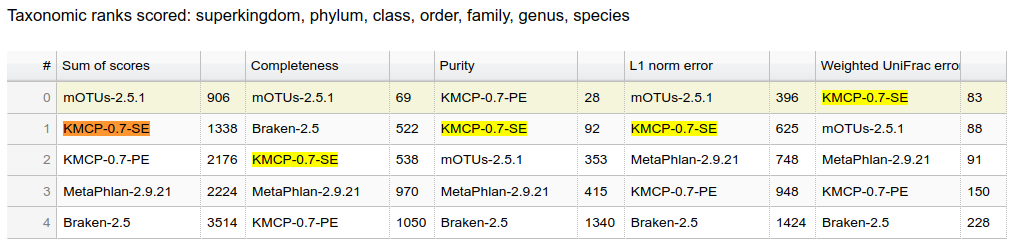
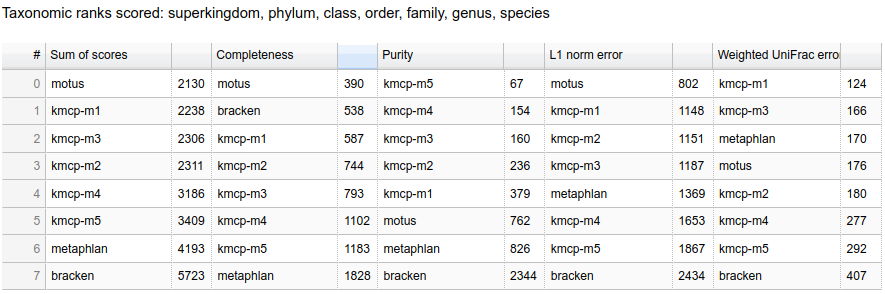
update benchmark results

diff --git a/benchmarks/cami2-mouse-gut/README.md b/benchmarks/cami2-mouse-gut/README.md
@@ -1,18 +1,26 @@
 # Benchmarks on CAMI2 toy mouse gut short reads dataset
 
+We created KMCP databaes with the RefSeq and Taxonomy snapshot provided by CAMI2 (2019-01-08).
+
+Gold standard was downloaded from: https://zenodo.org/record/3632528#.YJY6NaIzZD8 .
+Benchmark results of other tools are downloaded from: https://zenodo.org/search?page=1&size=20&q=keywords:%22CAMI%202%20Mouse%20Gut%20Toy%20data%20set%22&keywords=taxonomic%20profiling .
 
 ## Softwares
 
-- kmcp ([v0.7.0](https://github.com/shenwei356/kmcp/releases/tag/v0.7.0)
+- kmcp [v0.7.0](https://github.com/shenwei356/kmcp/releases/tag/v0.7.0)
+- motus 2.5.1
+- metaphlan 2.9.21
+- bracken 2.5
 
 ## Databases
 
-Prebuilt databases
+[Prebuilt databases](https://1drv.ms/u/s!Ag89cZ8NYcqtjVVADr8r--fnKFt-?e=ivNZNK):
 
-- DB for bacteria: [refseq-cami2-k21-n10.db.tar.gz]()
-- DB for viruses: [refseq-cami2-viral-k21-n5.db.tar.gz]()
-- TaxId mapping: [taxid.map](), and [taxid-viral.map]()
-- [taxdump.tar.gz]()
+- DB for bacteria: [refseq-cami2-k21-n10.db.tar.gz](https://1drv.ms/u/s!Ag89cZ8NYcqtjV62KmQmOojxwBRr?e=lp5a9F), [md5](https://1drv.ms/t/s!Ag89cZ8NYcqtjWISqJGcxQD39FCv?e=CQ0E8d)
+- DB for viruses: [refseq-cami2-viral-k21-n5.db.tar.gz](https://1drv.ms/u/s!Ag89cZ8NYcqtjVyYFIHY01PtDMcx?e=AO7xkY), [md5](https://1drv.ms/t/s!Ag89cZ8NYcqtjWDTIXL4eMpZNVA0?e=1YXKkk)
+- TaxId mapping: [taxid.map](https://1drv.ms/u/s!Ag89cZ8NYcqtjVvZBPDumqTp0LLX?e=2OGhTe), [md5](https://1drv.ms/t/s!Ag89cZ8NYcqtjWXOc2bP9cmE2H9C?e=yyZnaB);
+  [taxid-viral.map](https://1drv.ms/u/s!Ag89cZ8NYcqtjVclRm9-rd-K2MA3?e=6aOgqm), [md5](https://1drv.ms/t/s!Ag89cZ8NYcqtjWZR9Zfs7m33k_lV?e=ALSUe0)
+- [taxdump.tar.gz](https://1drv.ms/u/s!Ag89cZ8NYcqtjVjXKnxzq-sUb8Cw?e=7AwTnG), [md5](https://1drv.ms/t/s!Ag89cZ8NYcqtjWQf06gXeM0rLHJ9?e=dxSW9g)
 
 **Attention**: the CAMI2 RefSeq snapshot did not include viruses,
 and CAMI2 toy mouse gut dataset did not contain viral reads either.
@@ -122,26 +130,4 @@ https://data.cami-challenge.org/participate
             | rush -j 1 'cat {}' \
             > $profile
     done
-    
-## Test with prebuilt database
-
-Searching
-
-    # search on multiple database
-    file=sample_0.fq.gz
-    sampleId=0
-    for db in refseq-cami2-k21-n10.db refseq-cami2-viral-k21-n5.db; do
-        kmcp search -j 40 -d $db $file -o $file.kmcp@$db.tsv.gz
-    done
-    
-    # merge search result
-    kmcp merge $file.kmcp@*.tsv.gz -o $file.kmcp.tsv.gz
-    
-Profiling
-
-    # profile
-    kmcp profile -T taxid.map -T taxid-virus.map -X taxdump/ \
-        $file.kmcp.tsv.gz \
-        -o $file.kmcp.tsv.gz.k.profile \
-        -C $file.kmcp.tsv.gz.cami.profile -s $sampleId        
     

diff --git a/docs/download.md b/docs/download.md
@@ -3,6 +3,12 @@
 KMCP is implemented in [Go](https://golang.org/) programming language,
 statically-linked executable binary files are [freely available](https://github.com/shenwei356/kmcp/releases).
 
+## Current Version
+
+- [v0.7.0](https://github.com/shenwei356/kmcp/releases/tag/v0.7.0) - 2021-11-11
+[![Github Releases (by Release)](https://img.shields.io/github/downloads/shenwei356/kmcp/v0.7.0/total.svg)](https://github.com/shenwei356/kmcp/releases/tag/v0.7.0)
+
+### Links
 
 OS     |Arch      |File, 中国镜像                                                                                                                                                                                  |Download Count
 :------|:---------|:------------------------------------------------------------------------------------------------------------------------------------------------------------------------------------------------------------------|:-----------------------------------------------------------------------------------------------------------------------------------------------------------------------------------------------------------------------------------------------

diff --git a/docs/benchmark/searching.md b/docs/benchmark/searching.md
@@ -4,8 +4,8 @@
 
 Softwares
 
-- [cobs](https://github.com/bingmann/cobs) ([1915fc0](https://github.com/bingmann/cobs/commit/1915fc061bbe47946116b4a051ed7b4e3f3eca15))
-- [sourmash](https://github.com/dib-lab/sourmash) (v4.2.2)
+- [COBS](https://github.com/bingmann/cobs) ([1915fc0](https://github.com/bingmann/cobs/commit/1915fc061bbe47946116b4a051ed7b4e3f3eca15))
+- [Sourmash](https://github.com/dib-lab/sourmash) (v4.2.2)
 - KMCP ([v0.7.0](https://github.com/shenwei356/kmcp/releases/tag/v0.7.0))
 
 [GTDB r202 representative genomes](https://data.ace.uq.edu.au/public/gtdb/data/releases/release202/202.0/genomic_files_reps/gtdb_genomes_reps_r202.tar.gz) are used for tests:

diff --git a/docs/benchmark/profiling.md b/docs/benchmark/profiling.md
@@ -2,17 +2,30 @@
 
 ## CAMI2 mouse gut
 
-Metrics table
+[Software, databases and commands details](https://github.com/shenwei356/kmcp/tree/main/benchmarks/cami2-mouse-gut).
+
+Softwares:
+
+- mOTUs 2.5.1
+- MetaPHlAn 2.9.21
+- Bracken 2.5
+- KMCP v0.7.0
+
+Databases: RefSeq and Taxonomy snapshot provided by CAMI2 (2019-01-08)
+
+**Metrics table**
 
 ![](cami2-mouse-gut-metrics.png)
 
 
-Relative performance
+**Relative performance**
 
 ![](cami2-mouse-gut-spider_plot_relative.png)
 
-Rankings
+**Rankings**
 
 ![](cami2-mouse-gut-rankings.png)
 
-## Others
+## Sun et al's 25 simulated communities
+
+
